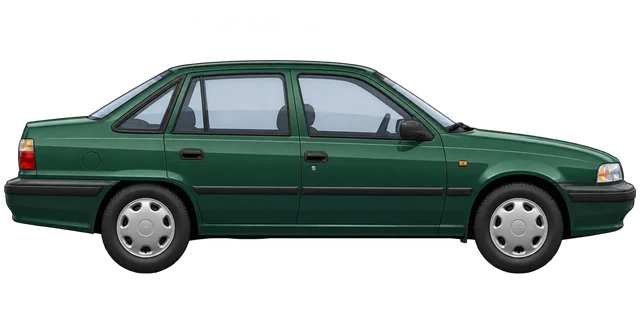
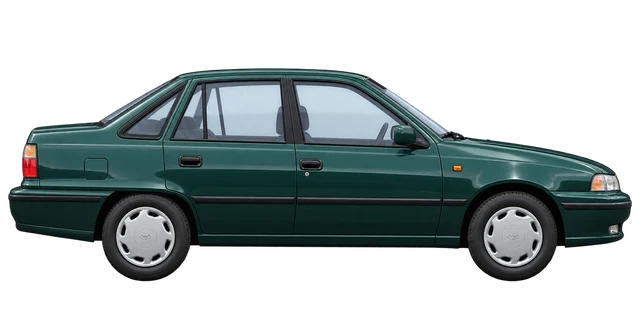
Fix garage heading, redraw Nexia models and add Damas for 850 coins

Changed region(s): [[0.0, 0.1875, 1.0, 0.9062]]

diff --git a/src/components/raceDashboard.css b/src/components/raceDashboard.css
@@ -1,4 +1,4 @@
-.qr-page{--lime:#d6f36b;--cyan:#63d9da;--ink:#0d111a;--panel:#171e2b;max-width:1200px;width:100%;margin:0 auto;padding:28px 0 50px;color:#f0f3fa;font-family:Inter,system-ui,sans-serif}.qr-page *{box-sizing:border-box}.qr-page button{cursor:pointer;transition:background .18s,border-color .18s,transform .18s}.qr-page button:disabled{cursor:not-allowed;opacity:.45}.qr-page button:focus-visible{outline:2px solid var(--lime);outline-offset:4px}.qr-page button:hover:not(:disabled){border-color:#d6f36b70}.qr-heading{display:flex;align-items:center;justify-content:space-between;gap:20px;margin-bottom:24px}.qr-kicker{font-size:10px;letter-spacing:.16em;font-weight:600;color:#a6b1c5;text-transform:uppercase}.qr-heading h1{font-size:32px;font-weight:650;margin:5px 0 0;letter-spacing:-.04em}.qr-wallet{display:flex;gap:10px}.qr-wallet>span{display:flex;align-items:center;gap:9px;background:#171e2b;border:1px solid #ffffff0e;border-radius:12px;padding:11px 15px;font-size:16px;font-variant-numeric:tabular-nums}.qr-wallet svg{color:var(--lime)}.qr-wallet small{font-size:10px;color:#a6b1c5}.qr-tabs{display:flex;gap:6px;border-bottom:1px solid #ffffff0d;padding-bottom:14px;margin-bottom:25px;overflow-x:auto}.qr-tabs button{display:flex;align-items:center;gap:9px;white-space:nowrap;padding:10px 17px;color:#a6b1c5;border-radius:9px;font-size:13px;border:1px solid transparent}.qr-tabs [aria-pressed=true]{background:#d6f36b0c;color:var(--lime);border-color:#d6f36b26}.qr-panel{border:1px solid #ffffff10;border-radius:20px;background:var(--panel)}.qr-lobby-grid{display:grid;grid-template-columns:minmax(0,1fr) 290px;gap:22px}.qr-main-column{min-width:0}.qr-hero{overflow:hidden;position:relative;display:grid;grid-template-columns:minmax(0,1fr) 40%;padding:30px;background:radial-gradient(ellipse at 85% 15%,#d6f36b0a,transparent 55%),#171e2b}.qr-hero-copy{padding:13px 0 22px;position:relative;z-index:1}.qr-hero h2{font-size:clamp(28px,3vw,43px);font-weight:650;letter-spacing:-.05em;line-height:1.13;margin:15px 0}.qr-hero p{font-size:13px;line-height:1.8;color:#a6b1c5;max-width:310px}.qr-hero-car{display:flex;flex-direction:column;justify-content:center;align-items:center;position:relative;min-width:0;padding:10px 0 24px}.qr-hero-car svg{width:110%;max-width:300px;z-index:1;transform:rotate(-3deg)}.qr-hero-car>span{font-size:14px;font-weight:500;z-index:1;margin-top:8px}.qr-hero-car small{font-size:10px;color:#748199;font-weight:400}.qr-car-orbit{position:absolute;width:210px;height:210px;border:1px solid #d6f36b10;border-radius:50%;background:radial-gradient(ellipse,#d6f36b08,transparent 70%);transform:rotateX(50deg);box-shadow:0 0 0 28px #d6f36b02,0 0 0 29px #d6f36b05}.qr-launch-grid{display:grid;grid-template-columns:1fr 1fr;gap:12px;grid-column:1/-1;margin:4px 0 26px}.qr-launch-grid>button{display:flex;align-items:center;text-align:left;gap:13px;padding:17px 18px;border-radius:12px;background:#202a3a;border:1px solid #ffffff10}.qr-launch-grid>button>svg:last-child{margin-left:auto;flex-shrink:0}.qr-launch-grid span{display:flex;flex-direction:column;gap:5px}.qr-launch-grid b{font-size:13px;font-weight:600}.qr-launch-grid small{font-size:10px;opacity:.65;line-height:1.4}.qr-page .qr-primary{background:var(--lime);color:#101613;border:1px solid #d6f36b;font-weight:600;border-radius:12px;display:inline-flex;align-items:center;justify-content:center;gap:10px;padding:14px 20px;font-size:13px}.qr-page .qr-primary:hover:not(:disabled){background:#e4fa93;transform:translateY(-1px)}.qr-lobby-settings{grid-column:1/-1;padding-top:22px;border-top:1px solid #ffffff0b;display:grid;grid-template-columns:210px minmax(0,1fr);gap:22px;align-items:end}.qr-lobby-settings .lb-filter-trigger{min-height:64px;background:#111825;padding:10px 12px}.qr-track-picker label{display:block;font-size:11px;color:#a6b1c5;margin-bottom:9px}.qr-track-picker>div{display:flex;gap:8px}.qr-track-picker button{border:1px solid #ffffff0a;border-radius:9px;font-size:9px;padding:6px;background:#111825;flex:1;text-align:left;min-width:0;color:#a6b1c5}.qr-track-picker button[aria-pressed=true]{border-color:#d6f36b66;color:#f0f3fa}.qr-track-picker i{display:block;height:24px;margin-bottom:5px;border-radius:5px;background:linear-gradient(135deg,#1a3047,#2f5265 70%,#d6f36b50)}.qr-track-picker .qr-theme-coast i{background:linear-gradient(135deg,#39485a,#637572 70%,#e6c68150)}.qr-track-picker .qr-theme-forest i{background:linear-gradient(135deg,#152f2b,#486753 70%,#71d9af50)}.qr-guide{margin-top:22px;padding:25px 28px}.qr-guide h2{font-size:15px;font-weight:600;margin:0 0 17px}.qr-guide>div{display:flex;gap:16px;margin:14px 0 0;align-items:baseline}.qr-guide b{color:var(--lime);font-size:10px;font-weight:500}.qr-guide p{font-size:12px;line-height:1.8;color:#a6b1c5;margin:0}.qr-profile{padding:27px 23px;text-align:center;align-self:start}.qr-profile-avatar{width:64px;height:64px;margin:27px auto 12px;display:grid;place-items:center;border-radius:19px;background:#d6f36b0e;border:1px solid #d6f36b30;font-size:27px;color:var(--lime)}.qr-profile h2{font-size:19px;font-weight:600;margin:12px 0;overflow-wrap:anywhere}.qr-league{display:inline-flex;gap:6px;align-items:center;color:#e6c681;font-size:10px;background:#e6c6810a;padding:6px 10px;border-radius:6px}.qr-level{display:flex;justify-content:space-between;font-size:10px;color:#a6b1c5;margin-top:28px}.qr-level-bar{height:5px;background:#0d111a;border-radius:6px;overflow:hidden;margin:9px 0}.qr-level-bar i{height:100%;display:block;background:var(--lime);border-radius:6px}.qr-profile>small{font-size:9px;color:#748199;display:block;text-align:left}.qr-profile-stats{display:grid;grid-template-columns:repeat(3,1fr);padding:24px 0;gap:8px;border-bottom:1px solid #ffffff0b}.qr-profile-stats span{display:flex;flex-direction:column;gap:6px;font-size:9px;color:#748199}.qr-profile-stats b{font-size:20px;color:#f0f3fa;font-weight:550}.qr-garage-link{display:flex;gap:10px;align-items:center;width:100%;padding:18px 0;font-size:12px;color:#d6f36b}.qr-garage-link svg:last-child{margin-left:auto}.qr-guest{border-top:1px solid #ffffff0b;text-align:left;padding-top:14px}.qr-guest p{font-size:10px;line-height:1.8;color:#748199}.qr-guest button{display:flex;align-items:center;gap:10px;font-size:11px;margin-top:10px;color:#a6b1c5}.qr-match{grid-column:1/-1;display:flex;align-items:center;gap:10px;padding-bottom:20px;font-size:12px;color:var(--cyan)}.qr-match>span{width:8px;height:8px;border-radius:50%;background:var(--cyan);animation:qr-pulse 1s infinite}.qr-match button{margin-left:auto;text-decoration:underline;font-size:11px}.qr-garage,.qr-statistics,.qr-ranking{padding:28px}.qr-garage header h2,.qr-statistics h2,.qr-ranking h2{font-size:24px;font-weight:600;letter-spacing:-.03em;margin:8px 0 12px}.qr-garage header p,.qr-statistics>p,.qr-ranking p{font-size:12px;color:#a6b1c5;line-height:1.8}.qr-garage-grid{display:grid;grid-template-columns:repeat(3,minmax(0,1fr));gap:18px;margin-top:28px}.qr-garage article{padding:20px;border:1px solid #ffffff10;border-radius:14px;background:#101722;position:relative}.qr-garage article[data-equipped=true]{border-color:#d6f36b55;background:linear-gradient(150deg,#d6f36b07,transparent),#101722}.qr-model{height:140px;display:grid;place-items:center;border-bottom:1px solid #ffffff0b;margin:12px 0 18px}.qr-model svg{width:100%;max-width:240px}.qr-garage h3{font-size:19px;margin:0 0 12px;font-weight:600}.qr-car-price{display:flex;align-items:center;gap:6px;font-size:12px;color:var(--lime)}.qr-garage article button{display:flex;gap:8px;align-items:center;justify-content:center;width:100%;padding:11px;margin-top:17px;border:1px solid #ffffff17;border-radius:8px;font-size:11px}.qr-stat-grid{display:grid;grid-template-columns:repeat(4,1fr);gap:14px;margin-top:28px}.qr-stat-grid>div{padding:22px;background:#101722;border:1px solid #ffffff0b;border-radius:12px;display:flex;flex-direction:column;gap:15px}.qr-stat-grid span{font-size:10px;color:#a6b1c5}.qr-stat-grid strong{font-size:25px;font-weight:500;letter-spacing:-.03em}.qr-ranking{margin-bottom:24px}.qr-ranking header{display:flex;justify-content:space-between;align-items:center}.qr-ranking h2{display:flex;gap:10px;align-items:center}.qr-ranking h2 svg{color:var(--lime)}.qr-table-scroll{overflow-x:auto;margin-top:18px}.qr-ranking table{width:100%;border-collapse:collapse;font-size:13px}.qr-ranking th{font-size:10px;text-align:left;color:#748199;padding:14px 12px;font-weight:500}.qr-ranking td{border-top:1px solid #ffffff0b;padding:17px 12px}.qr-ranking td:first-child{color:#748199;font-size:11px}.qr-ranking td small{display:block;color:#748199;font-size:10px;margin-top:5px}.qr-lime{color:var(--lime)}
+.qr-page{--lime:#d6f36b;--cyan:#63d9da;--ink:#0d111a;--panel:#171e2b;max-width:1200px;width:100%;margin:0 auto;padding:28px 0 50px;color:#f0f3fa;font-family:Inter,system-ui,sans-serif}.qr-page *{box-sizing:border-box}.qr-page button{cursor:pointer;transition:background .18s,border-color .18s,transform .18s}.qr-page button:disabled{cursor:not-allowed;opacity:.45}.qr-page button:focus-visible{outline:2px solid var(--lime);outline-offset:4px}.qr-page button:hover:not(:disabled){border-color:#d6f36b70}.qr-heading{display:flex;align-items:center;justify-content:space-between;gap:20px;margin-bottom:24px}.qr-kicker{font-size:10px;letter-spacing:.16em;font-weight:600;color:#a6b1c5;text-transform:uppercase}.qr-heading h1{font-size:32px;font-weight:650;margin:5px 0 0;letter-spacing:-.04em}.qr-wallet{display:flex;gap:10px}.qr-wallet>span{display:flex;align-items:center;gap:9px;background:#171e2b;border:1px solid #ffffff0e;border-radius:12px;padding:11px 15px;font-size:16px;font-variant-numeric:tabular-nums}.qr-wallet svg{color:var(--lime)}.qr-wallet small{font-size:10px;color:#a6b1c5}.qr-tabs{display:flex;gap:6px;border-bottom:1px solid #ffffff0d;padding-bottom:14px;margin-bottom:25px;overflow-x:auto}.qr-tabs button{display:flex;align-items:center;gap:9px;white-space:nowrap;padding:10px 17px;color:#a6b1c5;border-radius:9px;font-size:13px;border:1px solid transparent}.qr-tabs [aria-pressed=true]{background:#d6f36b0c;color:var(--lime);border-color:#d6f36b26}.qr-panel{border:1px solid #ffffff10;border-radius:20px;background:var(--panel)}.qr-lobby-grid{display:grid;grid-template-columns:minmax(0,1fr) 290px;gap:22px}.qr-main-column{min-width:0}.qr-hero{overflow:hidden;position:relative;display:grid;grid-template-columns:minmax(0,1fr) 40%;padding:30px;background:radial-gradient(ellipse at 85% 15%,#d6f36b0a,transparent 55%),#171e2b}.qr-hero-copy{padding:13px 0 22px;position:relative;z-index:1}.qr-hero h2{font-size:clamp(28px,3vw,43px);font-weight:650;letter-spacing:-.05em;line-height:1.13;margin:15px 0}.qr-hero p{font-size:13px;line-height:1.8;color:#a6b1c5;max-width:310px}.qr-hero-car{display:flex;flex-direction:column;justify-content:center;align-items:center;position:relative;min-width:0;padding:10px 0 24px}.qr-hero-car svg{width:110%;max-width:300px;z-index:1;transform:rotate(-3deg)}.qr-hero-car>span{font-size:14px;font-weight:500;z-index:1;margin-top:8px}.qr-hero-car small{font-size:10px;color:#748199;font-weight:400}.qr-car-orbit{position:absolute;width:210px;height:210px;border:1px solid #d6f36b10;border-radius:50%;background:radial-gradient(ellipse,#d6f36b08,transparent 70%);transform:rotateX(50deg);box-shadow:0 0 0 28px #d6f36b02,0 0 0 29px #d6f36b05}.qr-launch-grid{display:grid;grid-template-columns:1fr 1fr;gap:12px;grid-column:1/-1;margin:4px 0 26px}.qr-launch-grid>button{display:flex;align-items:center;text-align:left;gap:13px;padding:17px 18px;border-radius:12px;background:#202a3a;border:1px solid #ffffff10}.qr-launch-grid>button>svg:last-child{margin-left:auto;flex-shrink:0}.qr-launch-grid span{display:flex;flex-direction:column;gap:5px}.qr-launch-grid b{font-size:13px;font-weight:600}.qr-launch-grid small{font-size:10px;opacity:.65;line-height:1.4}.qr-page .qr-primary{background:var(--lime);color:#101613;border:1px solid #d6f36b;font-weight:600;border-radius:12px;display:inline-flex;align-items:center;justify-content:center;gap:10px;padding:14px 20px;font-size:13px}.qr-page .qr-primary:hover:not(:disabled){background:#e4fa93;transform:translateY(-1px)}.qr-lobby-settings{grid-column:1/-1;padding-top:22px;border-top:1px solid #ffffff0b;display:grid;grid-template-columns:210px minmax(0,1fr);gap:22px;align-items:end}.qr-lobby-settings .lb-filter-trigger{min-height:64px;background:#111825;padding:10px 12px}.qr-track-picker label{display:block;font-size:11px;color:#a6b1c5;margin-bottom:9px}.qr-track-picker>div{display:flex;gap:8px}.qr-track-picker button{border:1px solid #ffffff0a;border-radius:9px;font-size:9px;padding:6px;background:#111825;flex:1;text-align:left;min-width:0;color:#a6b1c5}.qr-track-picker button[aria-pressed=true]{border-color:#d6f36b66;color:#f0f3fa}.qr-track-picker i{display:block;height:24px;margin-bottom:5px;border-radius:5px;background:linear-gradient(135deg,#1a3047,#2f5265 70%,#d6f36b50)}.qr-track-picker .qr-theme-coast i{background:linear-gradient(135deg,#39485a,#637572 70%,#e6c68150)}.qr-track-picker .qr-theme-forest i{background:linear-gradient(135deg,#152f2b,#486753 70%,#71d9af50)}.qr-guide{margin-top:22px;padding:25px 28px}.qr-guide h2{font-size:15px;font-weight:600;margin:0 0 17px}.qr-guide>div{display:flex;gap:16px;margin:14px 0 0;align-items:baseline}.qr-guide b{color:var(--lime);font-size:10px;font-weight:500}.qr-guide p{font-size:12px;line-height:1.8;color:#a6b1c5;margin:0}.qr-profile{padding:27px 23px;text-align:center;align-self:start}.qr-profile-avatar{width:64px;height:64px;margin:27px auto 12px;display:grid;place-items:center;border-radius:19px;background:#d6f36b0e;border:1px solid #d6f36b30;font-size:27px;color:var(--lime)}.qr-profile h2{font-size:19px;font-weight:600;margin:12px 0;overflow-wrap:anywhere}.qr-league{display:inline-flex;gap:6px;align-items:center;color:#e6c681;font-size:10px;background:#e6c6810a;padding:6px 10px;border-radius:6px}.qr-level{display:flex;justify-content:space-between;font-size:10px;color:#a6b1c5;margin-top:28px}.qr-level-bar{height:5px;background:#0d111a;border-radius:6px;overflow:hidden;margin:9px 0}.qr-level-bar i{height:100%;display:block;background:var(--lime);border-radius:6px}.qr-profile>small{font-size:9px;color:#748199;display:block;text-align:left}.qr-profile-stats{display:grid;grid-template-columns:repeat(3,1fr);padding:24px 0;gap:8px;border-bottom:1px solid #ffffff0b}.qr-profile-stats span{display:flex;flex-direction:column;gap:6px;font-size:9px;color:#748199}.qr-profile-stats b{font-size:20px;color:#f0f3fa;font-weight:550}.qr-garage-link{display:flex;gap:10px;align-items:center;width:100%;padding:18px 0;font-size:12px;color:#d6f36b}.qr-garage-link svg:last-child{margin-left:auto}.qr-guest{border-top:1px solid #ffffff0b;text-align:left;padding-top:14px}.qr-guest p{font-size:10px;line-height:1.8;color:#748199}.qr-guest button{display:flex;align-items:center;gap:10px;font-size:11px;margin-top:10px;color:#a6b1c5}.qr-match{grid-column:1/-1;display:flex;align-items:center;gap:10px;padding-bottom:20px;font-size:12px;color:var(--cyan)}.qr-match>span{width:8px;height:8px;border-radius:50%;background:var(--cyan);animation:qr-pulse 1s infinite}.qr-match button{margin-left:auto;text-decoration:underline;font-size:11px}.qr-garage,.qr-statistics,.qr-ranking{padding:28px}.qr-garage-heading h2,.qr-statistics h2,.qr-ranking h2{font-size:24px;font-weight:600;letter-spacing:-.03em;margin:8px 0 12px}.qr-garage-heading p,.qr-statistics>p,.qr-ranking p{font-size:12px;color:#a6b1c5;line-height:1.8}.qr-garage-grid{display:grid;grid-template-columns:repeat(3,minmax(0,1fr));gap:18px;margin-top:28px}.qr-garage article{padding:20px;border:1px solid #ffffff10;border-radius:14px;background:#101722;position:relative}.qr-garage article[data-equipped=true]{border-color:#d6f36b55;background:linear-gradient(150deg,#d6f36b07,transparent),#101722}.qr-model{height:140px;display:grid;place-items:center;border-bottom:1px solid #ffffff0b;margin:12px 0 18px}.qr-model svg{width:100%;max-width:240px}.qr-garage h3{font-size:19px;margin:0 0 12px;font-weight:600}.qr-car-price{display:flex;align-items:center;gap:6px;font-size:12px;color:var(--lime)}.qr-garage article button{display:flex;gap:8px;align-items:center;justify-content:center;width:100%;padding:11px;margin-top:17px;border:1px solid #ffffff17;border-radius:8px;font-size:11px}.qr-stat-grid{display:grid;grid-template-columns:repeat(4,1fr);gap:14px;margin-top:28px}.qr-stat-grid>div{padding:22px;background:#101722;border:1px solid #ffffff0b;border-radius:12px;display:flex;flex-direction:column;gap:15px}.qr-stat-grid span{font-size:10px;color:#a6b1c5}.qr-stat-grid strong{font-size:25px;font-weight:500;letter-spacing:-.03em}.qr-ranking{margin-bottom:24px}.qr-ranking header{display:flex;justify-content:space-between;align-items:center}.qr-ranking h2{display:flex;gap:10px;align-items:center}.qr-ranking h2 svg{color:var(--lime)}.qr-table-scroll{overflow-x:auto;margin-top:18px}.qr-ranking table{width:100%;border-collapse:collapse;font-size:13px}.qr-ranking th{font-size:10px;text-align:left;color:#748199;padding:14px 12px;font-weight:500}.qr-ranking td{border-top:1px solid #ffffff0b;padding:17px 12px}.qr-ranking td:first-child{color:#748199;font-size:11px}.qr-ranking td small{display:block;color:#748199;font-size:10px;margin-top:5px}.qr-lime{color:var(--lime)}
 /* Race camera: the player's car stays near the left, rivals move relative to its progress. */
 .qr-race-surface{border:1px solid #ffffff12;background:#111824;border-radius:18px;overflow:hidden}.qr-hud{display:flex;align-items:center;gap:28px;padding:16px 24px;background:#171e2b}.qr-hud>div{display:flex;gap:9px;align-items:baseline;white-space:nowrap}.qr-hud>div:first-child{color:var(--lime)}.qr-hud svg{align-self:center}.qr-hud strong{font-size:22px;font-weight:600;font-variant-numeric:tabular-nums}.qr-hud small{font-size:10px;color:#a6b1c5}.qr-hud i{font-size:11px;color:#748199;font-style:normal;margin-left:2px}.qr-hud button{padding:7px;border:1px solid #ffffff0c;background:#0d111a44;border-radius:8px;color:#a6b1c5}.qr-hud button:first-of-type{margin-left:auto}.qr-track{position:relative;overflow:hidden;background:#1a2330}.qr-sky{height:130px;position:relative;overflow:hidden;background:linear-gradient(#142132,#253c4d)}.qr-track-coast .qr-sky{background:linear-gradient(#253544,#796957)}.qr-track-forest .qr-sky{background:linear-gradient(#152e2d,#375547)}.qr-moon{width:52px;height:52px;background:#d6f36b30;border:1px solid #d6f36b20;border-radius:50%;position:absolute;top:23px;right:18%;box-shadow:0 0 70px #d6f36b18}.qr-clouds{position:absolute;inset:10px -100% 0 0;background:radial-gradient(ellipse at 20% 22%,#ffffff04 0 10%,transparent 11%),radial-gradient(ellipse at 60% 40%,#ffffff05 0 12%,transparent 13%);background-size:700px 100px;animation:qr-world 50s linear infinite;animation-play-state:paused}.qr-mountains{position:absolute;inset:35% -100% 0 0;clip-path:polygon(0 100%,5% 40%,8% 60%,12% 15%,17% 75%,20% 40%,25% 90%,30% 20%,35% 65%,40% 0,46% 70%,50% 30%,55% 100%,60% 10%,67% 65%,75% 15%,80% 80%,86% 0,95% 90%,100% 100%);background:#0d192577;animation:qr-world 35s linear infinite;animation-play-state:paused}.qr-track-title{position:absolute;top:17px;left:22px;font-size:9px;letter-spacing:.2em;text-transform:uppercase;color:#a6b1c5}.qr-skyline{position:absolute;bottom:0;left:0;width:200%;display:flex;align-items:flex-end;gap:14px;animation:qr-world 18s linear infinite;animation-play-state:paused}.qr-skyline i{flex-shrink:0;display:block;background:repeating-linear-gradient(90deg,transparent 0 6px,#d6f36b0a 6px 9px,transparent 9px 15px),repeating-linear-gradient(0deg,#111b2b 0 10px,#293b46 10px 13px);border-top:2px solid #ffffff08}.qr-track-forest .qr-skyline i{clip-path:polygon(50% 0,100% 100%,0 100%);background:#102c28;width:55px!important;height:60px!important}.qr-track-coast .qr-skyline{opacity:.25}.qr-barrier{height:10px;border-top:2px solid #8996a533;border-bottom:2px solid #8996a533;background:repeating-linear-gradient(90deg,#d6f36b70 0 30px,#243044 30px 60px);animation:qr-road-move var(--qr-speed,2s) linear infinite;animation-play-state:paused}.qr-road{height:380px;position:relative;background:repeating-linear-gradient(0deg,#ffffff01 0 2px,transparent 2px 5px),linear-gradient(90deg,#25313f,#293746 50%,#25313f)}.qr-road-marks{position:absolute;inset:0;opacity:.35;background:repeating-linear-gradient(90deg,#c5ced8 0 40px,transparent 40px 100px) 0 25%/100% 2px no-repeat,repeating-linear-gradient(90deg,#c5ced8 0 40px,transparent 40px 100px) 0 50%/100% 2px no-repeat,repeating-linear-gradient(90deg,#c5ced8 0 40px,transparent 40px 100px) 0 75%/100% 2px no-repeat;animation:qr-road-move var(--qr-speed,2s) linear infinite;animation-play-state:paused}.qr-finish{position:absolute;top:0;bottom:0;width:18px;background:repeating-conic-gradient(#e4e9ed 0 25%,#0d111a 0 50%) 0 0/18px 18px;transition:left .3s linear;opacity:.8}.qr-racer{position:absolute;width:170px;height:25%;transition:left .42s linear;will-change:left;z-index:2;display:flex;flex-direction:column;justify-content:center}.qr-driver-name{display:block;align-self:center;max-width:180px;text-overflow:ellipsis;overflow:hidden;white-space:nowrap;background:#0d111acc;padding:4px 9px;font-size:9px;color:#c6cfdd;border-radius:5px;transform:translateY(9px);z-index:1}.qr-driver-name small{font-size:8px;color:#748199}.qr-racer-self .qr-driver-name{color:#d6f36b;background:#24392c;border:1px solid #d6f36b30}.qr-car-bounce{position:relative}.qr-car-svg{width:100%;filter:drop-shadow(0 5px 6px #0005)}.qr-racer-self .qr-car-svg{filter:drop-shadow(0 2px 12px #d6f36b19)}.qr-exhaust{position:absolute;width:33px;height:8px;background:linear-gradient(90deg,transparent,#d6f36b88);border-radius:50%;left:-18px;top:67%;opacity:0}.qr-wheel{animation:qr-wheel .22s linear infinite;animation-play-state:paused}.qr-track[data-driving=true] .qr-wheel,.qr-track[data-driving=true] .qr-skyline,.qr-track[data-driving=true] .qr-clouds,.qr-track[data-driving=true] .qr-mountains,.qr-track[data-driving=true] .qr-barrier,.qr-track[data-driving=true] .qr-road-marks{animation-play-state:running}.qr-track[data-driving=true] .qr-car-bounce{animation:qr-engine .16s infinite alternate}.qr-track[data-driving=true] .qr-exhaust{opacity:.6;animation:qr-engine .11s infinite alternate}.qr-overlay{position:absolute;inset:0;z-index:5;display:flex;flex-direction:column;justify-content:center;align-items:center;gap:18px;background:#0d111ab8;backdrop-filter:blur(3px)}.qr-overlay h2{font-size:30px;font-weight:600}.qr-overlay>button:not(.qr-primary){font-size:12px;color:#a6b1c5}.qr-count{font-size:100px;font-weight:600;line-height:1;color:var(--lime);animation:qr-count .5s ease-out}.qr-overlay p{font-size:12px;color:#a6b1c5}.qr-start-lights{display:flex;gap:12px;padding:13px 18px;background:#0d111a;border:1px solid #ffffff17;border-radius:30px}.qr-start-lights i{height:15px;width:15px;border-radius:50%;background:#313e4e}.qr-start-lights i[data-lit=true]{background:var(--lime);box-shadow:0 0 18px #d6f36b55}.qr-typing{position:relative;padding:19px 26px 22px;background:#111824;cursor:text;border-top:1px solid #ffffff12}.qr-typing:focus-within{background:#141d2a}.qr-typing-top{display:flex;justify-content:space-between;color:#748199;font-size:10px;margin-bottom:12px}.qr-typing-error .qr-typing-top{color:#f19b91}.qr-reel-window{height:138px;overflow:hidden;position:relative;mask-image:linear-gradient(transparent,#000 10%,#000 83%,transparent)}.qr-reel{font-family:'JetBrains Mono',monospace;font-size:23px;line-height:46px;color:#748199;position:relative;transition:transform .18s ease;overflow-wrap:break-word}.qr-reel-word{display:inline-block;white-space:pre}.qr-correct{color:#d6f36b}.qr-error{color:#f19b91;background:#f19b9118}.qr-caret{position:relative;color:#f0f3fa}.qr-caret:before{content:'';position:absolute;left:-1px;top:2px;width:2px;height:29px;background:#d6f36b;border-radius:2px;animation:qr-pulse .8s infinite}.qr-hidden-input{position:absolute;inset:0;opacity:0;width:100%;height:100%;font-size:16px;cursor:text}.qr-race-progress{height:4px;background:#0d111a}.qr-race-progress i{display:block;height:100%;background:var(--lime);transition:width .2s}.qr-message{padding:12px 22px;margin:0;background:#d6f36b0a;color:#a6b1c5;font-size:11px}.qr-results{text-align:center;padding:32px 20px}.qr-results h2{font-size:28px;font-weight:600;margin:10px 0 22px;letter-spacing:-.03em}.qr-result-numbers{display:flex;justify-content:center;gap:40px}.qr-result-numbers span{display:flex;flex-direction:column;gap:8px;font-size:10px;color:#748199}.qr-result-numbers b{font-size:27px;color:#f0f3fa;font-weight:550}.qr-rewards{display:flex;flex-wrap:wrap;justify-content:center;gap:28px;margin:25px 0;padding:20px;background:#d6f36b06;border:1px solid #d6f36b13;border-radius:12px}.qr-rewards>span{display:flex;gap:8px;align-items:center;font-size:11px;color:#a6b1c5}.qr-rewards svg,.qr-rewards b{color:var(--lime)}.qr-rewards b{font-size:19px}.qr-rewards small{flex-basis:100%;font-size:10px;color:#748199}.qr-actions{display:flex;justify-content:center;gap:20px;margin-top:25px}.qr-actions>button:not(.qr-primary){font-size:12px;color:#a6b1c5}.qr-results>p{font-size:12px;color:#a6b1c5;margin-top:20px}.qr-results>[role=alert]{font-size:12px;color:#f19b91;padding:14px}.qr-page .game-stage-toolbar{display:flex;justify-content:flex-end;margin:0 0 10px}.qr-page .game-stage-toolbar button{display:flex;gap:8px;align-items:center;color:#a6b1c5;font-size:11px;padding:9px 13px;background:#171e2b;border-radius:8px}.qr-page .game-stage-large{position:fixed;inset:0;z-index:80;padding:16px;background:#0d111a;overflow:auto}.qr-page .game-stage-large .qr-road{height:clamp(250px,42vh,430px)}.qr-page .race-top-ten{margin-top:24px;background:#171e2b;border:1px solid #ffffff10;border-radius:18px;padding:24px}.qr-page .race-top-heading{display:flex;justify-content:space-between;gap:15px;margin-bottom:18px}.qr-page .race-top-heading h2{display:flex;gap:9px;align-items:center;font-size:18px;font-weight:600}.qr-page .race-top-heading p,.qr-page .race-top-note{font-size:11px;color:#748199;margin-top:8px}.qr-page .race-top-scroll{overflow-x:auto}.qr-page .race-top-ten table{width:100%;border-collapse:collapse;font-size:12px}.qr-page .race-top-ten td,.qr-page .race-top-ten th{padding:14px 10px;text-align:left;border-top:1px solid #ffffff0b}.qr-page .race-top-ten th{font-weight:400;color:#748199;font-size:10px}.qr-page .race-top-self{color:var(--lime)}
 @keyframes qr-world{to{transform:translateX(-35%)}}@keyframes qr-road-move{to{background-position-x:-600px}}@keyframes qr-wheel{to{transform:rotate(360deg)}}@keyframes qr-engine{to{transform:translateY(-.8px)}}@keyframes qr-count{from{transform:scale(1.15);opacity:.5}to{transform:scale(1);opacity:1}}@keyframes qr-pulse{50%{opacity:.4}}
@@ -63,3 +63,5 @@
 
 .qr-leagues table{border-collapse:separate;border-spacing:0 8px}.qr-leagues tbody td{background:#243244;border-top:1px solid #ffffff0d;border-bottom:1px solid #ffffff12;padding:16px 12px}.qr-leagues tbody td:first-child{border-radius:12px 0 0 12px}.qr-leagues tbody td:last-child{border-radius:0 12px 12px 0}.qr-leagues tbody tr:hover td{background:#2c3e52}.qr-leagues .qr-league-self td{background:#d6f36b18}.qr-leagues .race-driver-link{display:inline-block;color:#edf4fb}.qr-leagues .race-driver-link[aria-expanded=true]{color:#d6f36b}
 @media(max-width:600px){.qr-leagues tbody td{padding:12px 6px}}
+
+.qr-garage-heading{position:static;display:block;width:100%;height:auto;min-height:0;overflow:visible;background:transparent;border:0;padding:0}.qr-garage-heading>div{padding:0}.qr-garage-heading h2{display:block;height:auto;overflow:visible;line-height:1.35;padding:2px 0 5px;margin:10px 0 12px}

diff --git a/src/components/RaceDashboard.tsx b/src/components/RaceDashboard.tsx
@@ -59,7 +59,7 @@ export function RaceDashboard(p:Props){
  {tab==='lobby'&&<div className="qr-lobby-grid"><div className="qr-main-column"><section className="qr-hero qr-panel"><div className="qr-hero-copy"><span className="qr-kicker">{u('raceLimit')}</span><h2>{u('title')}</h2><p>{u('subtitle')}</p></div><div className="qr-hero-car"><div className="qr-car-orbit"/><RacingCar color={car.color} shape={car.shape}/><span>{car.name} <small> / {u('equipped')}</small></span></div><div className="qr-launch-grid"><button className="qr-primary" disabled={p.phase==='matching'} onClick={()=>launch()}><Flag size={21}/><span><b>{u('quick')}</b><small>{u('quickSub')}</small></span><ArrowRight size={18}/></button><button disabled={p.phase==='matching'} onClick={()=>launch(true)}><Globe size={21}/><span><b>{u('online')}</b><small>{u('onlineSub')}</small></span><ArrowRight size={18}/></button></div>{p.phase==='matching'&&<div className="qr-match" role="status"><span/>{p.message}<button onClick={p.reset}>{gameText(p.language,'cancel')}</button></div>}<div className="qr-lobby-settings"><LeaderboardFilter label={gameText(p.language,'language')} value={p.typingLanguage} options={(['uzbek_latin','uzbek_cyrillic','russian','english'] as const).map(value=>({value,label:gameText(p.language,value)}))} icon={<Globe size={18}/>} onChange={p.setTypingLanguage} disabled={p.phase==='matching'}/><div className="qr-track-auto"><Flag size={17}/><div><label>{u('track')}</label><p>{u('randomTrack')}</p><small>{u('city')} · {u('coast')} · {u('forest')}</small></div></div></div></section>
  <section className="qr-panel qr-guide"><h2>{u('how')}</h2>{(['rule1','rule2','rule3'] as const).map((k,i)=><div key={k}><b>0{i+1}</b><p>{u(k)}</p></div>)}</section></div>
  <aside className="qr-profile qr-panel"><span className="qr-kicker">{u('driver')}</span><div className="qr-profile-avatar">{p.name.slice(0,1).toUpperCase()}</div><h2>{p.name}</h2><span className="qr-league"><Trophy size={15}/>{u(leagueKeys[leagueIndex(c.trophies)])} · {u('league')}</span><div className="qr-level"><span>{u('level')} {level.level}</span><span>{c.xp} XP</span></div><div className="qr-level-bar"><i style={{width:`${level.progress}%`}}/></div><small>{u('nextLevel')}: {level.next-c.xp} XP</small><div className="qr-profile-stats"><span><b>{c.best_wpm}</b>WPM</span><span><b>{c.races}</b>{u('races')}</span><span><b>{c.words}</b>{u('words')}</span></div><button className="qr-garage-link" onClick={()=>setTab('garage')}><Car size={18}/>{u('garage')}<ArrowRight size={16}/></button>{!p.userId&&<div className="qr-guest"><p>{u('guestNote')}</p><button onClick={p.signup}>{u('login')}<ArrowRight size={15}/></button></div>}</aside></div>}
- {tab==='garage'&&<section className="qr-panel qr-garage"><header><div><span className="qr-kicker">{u('coins')}: {c.coins}</span><h2>{u('garage')}</h2><p>{u('cosmetic')}</p></div></header><div className="qr-garage-grid">{CARS.map(model=>{const owned=c.owned.includes(model.id);return <article key={model.id} data-equipped={c.equipped===model.id}><span className="qr-kicker">{String(model.shape+1).padStart(2,'0')} / QALAMTYPE</span><div className="qr-model"><RacingCar color={model.color} shape={model.shape}/></div><h3>{model.name}</h3><button className="qr-engine-preview" aria-label={`${model.name}: ${enginePreview.previewing===model.id?u('stopSound'):u('engineSound')}`} aria-pressed={enginePreview.previewing===model.id} onClick={()=>enginePreview.previewing===model.id?enginePreview.stopPreview():enginePreview.preview(model.id)}><Volume2 size={15}/>{enginePreview.previewing===model.id?u('stopSound'):u('engineSound')}</button><span className="qr-car-price"><Coins size={15}/>{model.price||'—'}</span><button disabled={saving||(!owned&&c.coins<model.price)||c.equipped===model.id} onClick={()=>void p.career.equip(model.id)}>{c.equipped===model.id?<><Check size={16}/>{u('equipped')}</>:owned?u('equip'):c.coins<model.price?<><Lock size={15}/>{u('needCoins')}</>:u('unlock')}</button></article>})}</div>{failed&&<p role="alert">{u('error')}</p>}</section>}
+ {tab==='garage'&&<section className="qr-panel qr-garage"><div className="qr-garage-heading"><div><span className="qr-kicker">{u('coins')}: {c.coins}</span><h2>{u('garage')}</h2><p>{u('cosmetic')}</p></div></div><div className="qr-garage-grid">{CARS.map((model,index)=>{const owned=c.owned.includes(model.id);return <article key={model.id} data-equipped={c.equipped===model.id}><span className="qr-kicker">{String(index+1).padStart(2,'0')} / QALAMTYPE</span><div className="qr-model"><RacingCar color={model.color} shape={model.shape}/></div><h3>{model.name}</h3><button className="qr-engine-preview" aria-label={`${model.name}: ${enginePreview.previewing===model.id?u('stopSound'):u('engineSound')}`} aria-pressed={enginePreview.previewing===model.id} onClick={()=>enginePreview.previewing===model.id?enginePreview.stopPreview():enginePreview.preview(model.id)}><Volume2 size={15}/>{enginePreview.previewing===model.id?u('stopSound'):u('engineSound')}</button><span className="qr-car-price"><Coins size={15}/>{model.price||'—'}</span><button disabled={saving||(!owned&&c.coins<model.price)||c.equipped===model.id} onClick={()=>void p.career.equip(model.id)}>{c.equipped===model.id?<><Check size={16}/>{u('equipped')}</>:owned?u('equip'):c.coins<model.price?<><Lock size={15}/>{u('needCoins')}</>:u('unlock')}</button></article>})}</div>{failed&&<p role="alert">{u('error')}</p>}</section>}
  {tab==='rankings'&&<><RaceLeagues language={p.language} revision={p.career.revision} trophies={c.trophies} userId={p.userId} signup={p.signup}/><RaceLeaderboard language={p.language} userId={p.userId} revision={p.career.revision}/></>}
  {tab==='stats'&&<section className="qr-panel qr-statistics"><span className="qr-kicker">{u('driver')} / {p.name}</span><h2>{u('stats')}</h2><div className="qr-stat-grid">{[[c.races,u('races')],[c.words,u('words')],[c.best_wpm+' WPM',u('best')],[(c.races?c.total_accuracy/c.races:0).toFixed(1)+'%',u('average')],[(c.total_seconds/60).toFixed(1)+' '+u('min'),u('totalTime')],[c.xp,u('xp')],[c.trophies,u('trophies')],[c.coins,u('coins')]].map(([value,label])=><div key={label}><span>{label}</span><strong>{value}</strong></div>)}</div>{!c.races&&<p>{u('empty')}</p>}</section>}
  </>}

diff --git a/src/hooks/useRaceAudio.ts b/src/hooks/useRaceAudio.ts
@@ -6,7 +6,7 @@ export function useRaceAudio(car='tico',previewMode=false){
  const [muted,setMuted]=useState(()=>{try{return localStorage.getItem('qalamtype-race-muted')==='true'}catch{return false}});const muteRef=useRef(muted);muteRef.current=muted;
  const ctx=useRef<AudioContext|null>(null),output=useRef<GainNode|null>(null),engine=useRef<OscillatorNode|null>(null),motorGain=useRef<GainNode|null>(null),roadGain=useRef<GainNode|null>(null),filter=useRef<BiquadFilterNode|null>(null);const speed=useRef(0);const harmonic=useRef<OscillatorNode|null>(null),harmonicGain=useRef<GainNode|null>(null);const previewTimer=useRef<ReturnType<typeof setInterval>|null>(null);const [previewing,setPreviewing]=useState<string|null>(null);
  const sample=useRef<AudioBufferSourceNode|null>(null),sampleGain=useRef<GainNode|null>(null),sampleCar=useRef(''),loadingCar=useRef(''),buffers=useRef(new Map<string,AudioBuffer>());
- const loadEngine=useCallback(()=>{const a=ctx.current,model=carRef.current;if(!a||!output.current||loadingCar.current===model||sampleCar.current===model)return;loadingCar.current=model;const install=(buffer:AudioBuffer)=>{if(ctx.current!==a||a.state==='closed'||carRef.current!==model)return;sample.current?.stop();const source=a.createBufferSource(),gain=a.createGain();source.buffer=buffer;source.loop=true;gain.gain.value=0;const exhaust=a.createBiquadFilter();exhaust.type='lowpass';exhaust.frequency.value=3200;source.connect(gain).connect(exhaust).connect(output.current!);source.start();sample.current=source;sampleGain.current=gain;sampleCar.current=model;};const cached=buffers.current.get(model);if(cached){install(cached);loadingCar.current='';return}void fetch(`/audio/race-engines-v5/${model}.mp3`).then(r=>{if(!r.ok)throw Error('audio');return r.arrayBuffer()}).then(bytes=>a.decodeAudioData(bytes)).then(buffer=>{buffers.current.set(model,buffer);install(buffer)}).catch(()=>{}).finally(()=>{if(loadingCar.current===model)loadingCar.current=''});},[]);
+ const loadEngine=useCallback(()=>{const a=ctx.current,model=carRef.current;if(!a||!output.current||loadingCar.current===model||sampleCar.current===model)return;loadingCar.current=model;const install=(buffer:AudioBuffer)=>{if(ctx.current!==a||a.state==='closed'||carRef.current!==model)return;sample.current?.stop();const source=a.createBufferSource(),gain=a.createGain();source.buffer=buffer;source.loop=true;gain.gain.value=0;const exhaust=a.createBiquadFilter();exhaust.type='lowpass';exhaust.frequency.value=3200;source.connect(gain).connect(exhaust).connect(output.current!);source.start();sample.current=source;sampleGain.current=gain;sampleCar.current=model;};const cached=buffers.current.get(model);if(cached){install(cached);loadingCar.current='';return}void fetch(`/audio/race-engines-v5/${model==='damas'?'tico':model}.mp3`).then(r=>{if(!r.ok)throw Error('audio');return r.arrayBuffer()}).then(bytes=>a.decodeAudioData(bytes)).then(buffer=>{buffers.current.set(model,buffer);install(buffer)}).catch(()=>{}).finally(()=>{if(loadingCar.current===model)loadingCar.current=''});},[]);
  const unlock=useCallback(()=>{try{if(!ctx.current){const a=new AudioContext();ctx.current=a;const master=a.createGain();master.gain.value=muteRef.current?0:.38;master.connect(a.destination);output.current=master;const low=a.createBiquadFilter();low.type='lowpass';low.frequency.value=170;filter.current=low;const gain=a.createGain();gain.gain.value=0;motorGain.current=gain;const osc=a.createOscillator();osc.type='sawtooth';osc.frequency.value=35;osc.connect(low).connect(gain).connect(master);osc.start();engine.current=osc;const extra=a.createOscillator(),extraGain=a.createGain();extra.type='triangle';extraGain.gain.value=.2;extra.connect(extraGain).connect(low);extra.start();harmonic.current=extra;harmonicGain.current=extraGain;const buffer=a.createBuffer(1,a.sampleRate*2,a.sampleRate),data=buffer.getChannelData(0);let value=0;for(let i=0;i<data.length;i++){value=.96*value+.04*(Math.random()*2-1);data[i]=value;}const source=a.createBufferSource();source.buffer=buffer;source.loop=true;const road=a.createGain();road.gain.value=0;roadGain.current=road;source.connect(road).connect(master);source.start();}void ctx.current.resume().catch(()=>{});loadEngine();}catch{}},[loadEngine]);
  const setSpeed=useCallback((velocity:number)=>{speed.current=velocity;const a=ctx.current;if(!a||!engine.current)return;loadEngine();const hasSample=sampleCar.current===carRef.current&&!!sample.current;const voice=engineVoice(carRef.current),v=Math.min(1,Math.max(0,velocity)/40);const rpm=voice.idle+v*voice.rev;if(sample.current&&sampleGain.current){sample.current.playbackRate.setTargetAtTime(.9+v*.28,a.currentTime,.12);sampleGain.current.gain.setTargetAtTime(hasSample&&velocity>.1?.35+v*.3:0,a.currentTime,.10);}engine.current.type=voice.tone;engine.current.frequency.setTargetAtTime(rpm,a.currentTime,.09);harmonic.current?.frequency.setTargetAtTime(rpm*voice.harmonic,a.currentTime,.09);harmonicGain.current?.gain.setTargetAtTime(voice.mix,a.currentTime,.08);motorGain.current?.gain.setTargetAtTime(0,a.currentTime,.13);roadGain.current?.gain.setTargetAtTime(v*voice.rumble*.08,a.currentTime,.13);filter.current?.frequency.setTargetAtTime(100+v*voice.cutoff,a.currentTime,.08);},[loadEngine]);
  const stopPreview=useCallback(()=>{if(previewTimer.current)clearInterval(previewTimer.current);previewTimer.current=null;setSpeed(0);setPreviewing(null);if(ctx.current&&output.current)output.current.gain.setTargetAtTime(muteRef.current?0:.38,ctx.current.currentTime,.1);},[setSpeed]);

diff --git a/tests/race-bots.test.ts b/tests/race-bots.test.ts
@@ -1,3 +1,4 @@
+import {CARS} from '../src/lib/raceCareer';
 import {test} from 'node:test';
 import assert from 'node:assert/strict';
 import {botPerformance,botCarIndex,BOT_CAR_WEIGHTS} from '../src/lib/raceBots';
@@ -25,13 +26,13 @@ test('random opponents remain bounded, pause, and preserve deterministic monoton
 
 test('bot cars shuffle per round and premium cars are rare, with stable assignments',()=>{
  assert.equal(BOT_CAR_WEIGHTS.reduce((sum,v)=>sum+v,0),100);
- const counts=Array(11).fill(0);
+ const counts=Array(CARS.length).fill(0);
  for(let seed=0;seed<10000;seed++)for(const id of ['bot-0','bot-1','bot-2']){
   const index=botCarIndex(id,seed);counts[index]++;assert.equal(botCarIndex(id,seed),index);
  }
  assert.ok(counts.every(v=>v>0));
- assert.ok(counts.slice(0,5).reduce((a,b)=>a+b,0)>22000);
- const premium=counts.slice(8).reduce((a,b)=>a+b,0);assert.ok(premium>1200&&premium<2400);
- assert.ok(counts[0]>counts[10]*12);
- for(const id of ['bot-0','bot-1','bot-2'])assert.ok(new Set(Array.from({length:1000},(_,seed)=>botCarIndex(id,seed))).size===11);
+ assert.ok(counts.slice(0,6).reduce((a,b)=>a+b,0)>22000);
+ const premium=counts.slice(9).reduce((a,b)=>a+b,0);assert.ok(premium>1200&&premium<2400);
+ assert.ok(counts[0]>counts[11]*12);
+ for(const id of ['bot-0','bot-1','bot-2'])assert.ok(new Set(Array.from({length:1000},(_,seed)=>botCarIndex(id,seed))).size===CARS.length);
 });

diff --git a/tests/race-career.test.ts b/tests/race-career.test.ts
@@ -23,9 +23,15 @@ test('every racing interface message is present in all four system languages',()
 });
 
 test('real car prices increase strictly and legacy purchases migrate without lost balances',()=>{
- assert.equal(CARS.length,11);assert.equal(CARS[0].id,'tico');assert.equal(CARS[0].price,0);assert.equal(CARS.at(-1)?.id,'gwagon');
+ assert.equal(CARS.length,12);assert.equal(CARS[0].id,'tico');assert.equal(CARS[0].price,0);assert.equal(CARS.at(-1)?.id,'gwagon');
  for(let i=1;i<CARS.length;i++)assert.ok(CARS[i].price>CARS[i-1].price);
  const c=migrateLegacyCars({coins:10,owned:['spark','comet','pulse','phantom','apex'],equipped:'apex'});
  assert.deepEqual(c.owned,['tico','jiguli','nexia1','nexia2','lacetti']);assert.equal(c.coins,1060);assert.equal(c.equipped,'lacetti');
  const gaps=LEAGUES.slice(1).map((l,i)=>l.min-LEAGUES[i].min);for(let i=1;i<gaps.length;i++)assert.ok(gaps[i]>gaps[i-1]);
+});
+
+test('Damas follows Nexia 2 and costs 850 coins only on first purchase',()=>{
+ const index=CARS.findIndex(car=>car.id==='nexia2');assert.equal(CARS[index+1].id,'damas');assert.equal(CARS[index+1].name,'Damas');
+ let career={...emptyCareer(),coins:900};career=equipCar(career,'damas');assert.equal(career.coins,50);assert.equal(career.equipped,'damas');
+ career=equipCar(career,'tico');career=equipCar(career,'damas');assert.equal(career.coins,50);
 });

diff --git a/src/components/RacingCar.tsx b/src/components/RacingCar.tsx
@@ -3,8 +3,8 @@ import React, {useId} from 'react';
 const models = [
  ['tico',1774,887,278,1455,666,105],
  ['jiguli',1774,887,423,1470,650,98],
- ['nexia1',1774,887,403,1423,636,96],
- ['nexia2',1774,887,419,1443,633,94],
+ ['nexia1',1774,887,405,1410,655,88],
+ ['nexia2',1774,887,430,1414,660,88],
  ['spark',1774,887,294,1398,695,107],
  ['lacetti',1774,887,372,1395,646,95],
  ['cobalt',1774,887,330,1394,649,100],
@@ -12,6 +12,7 @@ const models = [
  ['malibu',1983,793,448,1597,567,111],
  ['tahoe',1774,887,391,1458,630,110],
  ['gwagon',1774,887,378,1467,655,119],
+ ['damas',1774,887,420,1240,720,90],
 ] as const;
 function RacingCarDrawing({shape=0}: {color?:string;shape?:number}) {
  const id=useId().replace(/:/g,'');

diff --git a/src/lib/raceEngine.ts b/src/lib/raceEngine.ts
@@ -5,6 +5,7 @@ export const ENGINE_VOICES = {
  jiguli: {idle:33, rev:116, tone:'square', harmonic:2, mix:.13, cutoff:420, rumble:.28},
  nexia1: {idle:40, rev:143, tone:'sawtooth', harmonic:2, mix:.18, cutoff:570, rumble:.16},
  nexia2: {idle:43, rev:153, tone:'triangle', harmonic:2, mix:.28, cutoff:720, rumble:.12},
+ damas: {idle:51, rev:155, tone:'square', harmonic:1.5, mix:.19, cutoff:600, rumble:.23},
  spark: {idle:53, rev:183, tone:'triangle', harmonic:1.5, mix:.30, cutoff:950, rumble:.08},
  lacetti: {idle:38, rev:136, tone:'sawtooth', harmonic:2, mix:.24, cutoff:590, rumble:.15},
  cobalt: {idle:44, rev:148, tone:'triangle', harmonic:3, mix:.19, cutoff:680, rumble:.13},

diff --git a/src/lib/raceCareer.ts b/src/lib/raceCareer.ts
@@ -3,6 +3,7 @@ export const CARS = [
  {id:'jiguli',name:'Jiguli',price:150,color:'#E6C681',shape:1},
  {id:'nexia1',name:'Nexia 1',price:350,color:'#C7D2DF',shape:2},
  {id:'nexia2',name:'Nexia 2',price:650,color:'#A8C5CE',shape:3},
+ {id:'damas',name:'Damas',price:850,color:'#F1F2EE',shape:11},
  {id:'spark',name:'Spark',price:1000,color:'#71D9AF',shape:4},
  {id:'lacetti',name:'Lacetti',price:1500,color:'#CCD3DB',shape:5},
  {id:'cobalt',name:'Cobalt',price:2200,color:'#D8E4EE',shape:6},

diff --git a/src/lib/raceBots.ts b/src/lib/raceBots.ts
@@ -18,7 +18,7 @@ export function botPerformance(id:string,raceSeed:number,elapsed:number){
 }
 
 // Percent chances follow the catalog order. Premium cars remain possible but rare.
-export const BOT_CAR_WEIGHTS=[22,17,14,12,10,8,6,5,3,2,1] as const;
+export const BOT_CAR_WEIGHTS=[20,16,13,11,8,9,7,6,4,3,2,1] as const;
 export function botCarIndex(id:string,raceSeed:number){
  let hash=2166136261;
  for(const char of 'car:'+id+':'+raceSeed)hash=Math.imul(hash^char.charCodeAt(0),16777619);

diff --git a/docs/race-car-assets-v4.md b/docs/race-car-assets-v4.md
@@ -1,0 +1,18 @@
+# Garage catalog refresh — 21 October 2026
+
+Built-in imagegen generated original transparent side-profile sprites from real model references, then exported alpha-preserving 640px WebP files into public/images/race-cars-v3. Nexia 1 and Nexia 2 replace the earlier illustrations; Damas is new. Image source canvas is 1774×887; wheel coordinates in RacingCar match each sprite. Existing shape IDs remain stable and Damas uses shape 11, while catalog order inserts it after Nexia 2.
+
+References:
+- Nexia N100 front: https://img4.auto.cz/moje.auto.cz/img/galleries/4d7849f6b216c/4d78506136461.jpg
+- Nexia N150 side: https://hdpic.club/uploads/posts/2021-11/1637945868_29-hdpic-club-p-deu-neksiya-n150-29.jpg
+- Nexia N150 alternate: https://avatars.mds.yandex.net/get-autoru-vos/2168853/891e4f22476f0d1393230625ed18c2b1/1200x900
+- Damas: https://files2.aster.kz/market/aster/2023-4/241157_a9c270dc-27a0-4d7d-b369-64b0c995acc6_L_resolution2133x1173.webp
+- Manufacturer model: https://chevrolet.uz/damas
+
+Prompt specifications:
+- Nexia 1: forest green Daewoo Nexia N100 sedan (1996–2007), reference-correct rectangular lamps, flat hood, angular cabin, long trunk, four doors, triangular quarter glass, black rub strips and stock wheel covers.
+- Nexia 2: silver Daewoo Nexia N150 (2008–2016), reproduce reference body proportions, N100-derived angular cabin, long trunk, large triangular quarter glass, black oval handles, tall rear lamps and N150 bumpers/headlights. No Aveo/Nexia 3/Lacetti substitution.
+- Damas: classic white Chevrolet Damas passenger microvan, high flat roof, cab-over nose, sliding door and three side windows, small stock wheels, orange/dark blue factory stripe. No Move/Max or Labo. Final edit removed disconnected white fragments around the roof.
+- All: one semi-realistic illustrated vehicle in strict 90-degree side profile facing right, exactly two round visible wheels, transparent landscape canvas, no people, floor, cast shadow, text or plate lettering.
+
+Damas costs 850 coins in both the client and authenticated database catalog. It reuses the Tico sample audio as a temporary small-engine sound, with its own procedural voice configuration.
